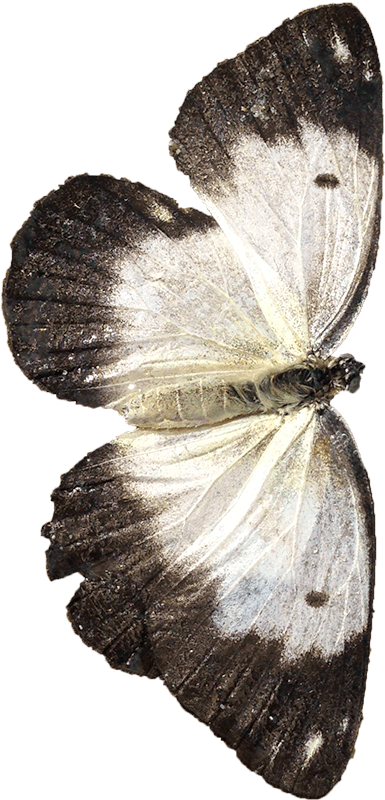
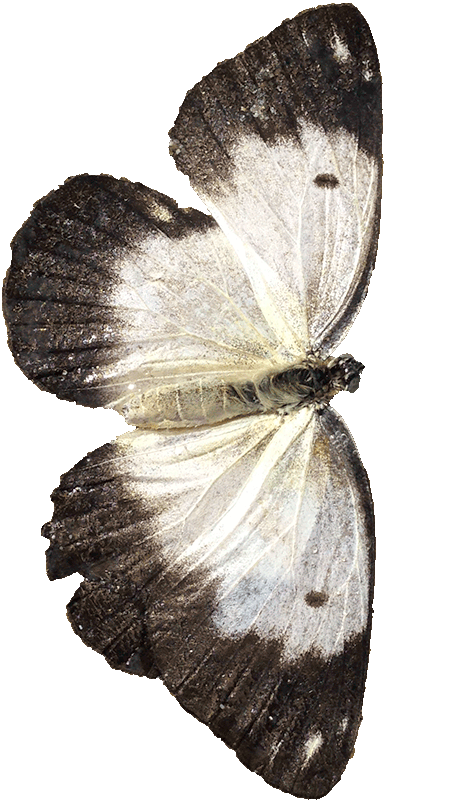
Butterfly image alpha correction.
Don't matte with white.
Also smoothing butterfly motion.

diff --git a/web/cadaver-exquis/sections/image.js b/web/cadaver-exquis/sections/image.js
@@ -4,17 +4,18 @@ var image = (function() {
     // Define a function that creates your section.
     // This function will return an object that has an "update" and "draw" function.
     function create (frame) {
-        var img = new Image();
-        img.src = "images/butterfly.png";
+        // Set up some parameters for our drawing.
         var y = 0;
         var rotation = 0;
         var rotationSpeed = util.random(0.5, 1.5) * 0.001;
+        var img = new Image();
+        img.src = "images/butterfly.png";
 
         // use this function to change your drawing's variables to respond to the previous drawing
         function update(input, time) {
-            y = input;
+            y = util.mix(y, input, 0.1);
             rotation += rotationSpeed;
-            return input;
+            return y;
         }
 
         // use this function to draw your section to screen
